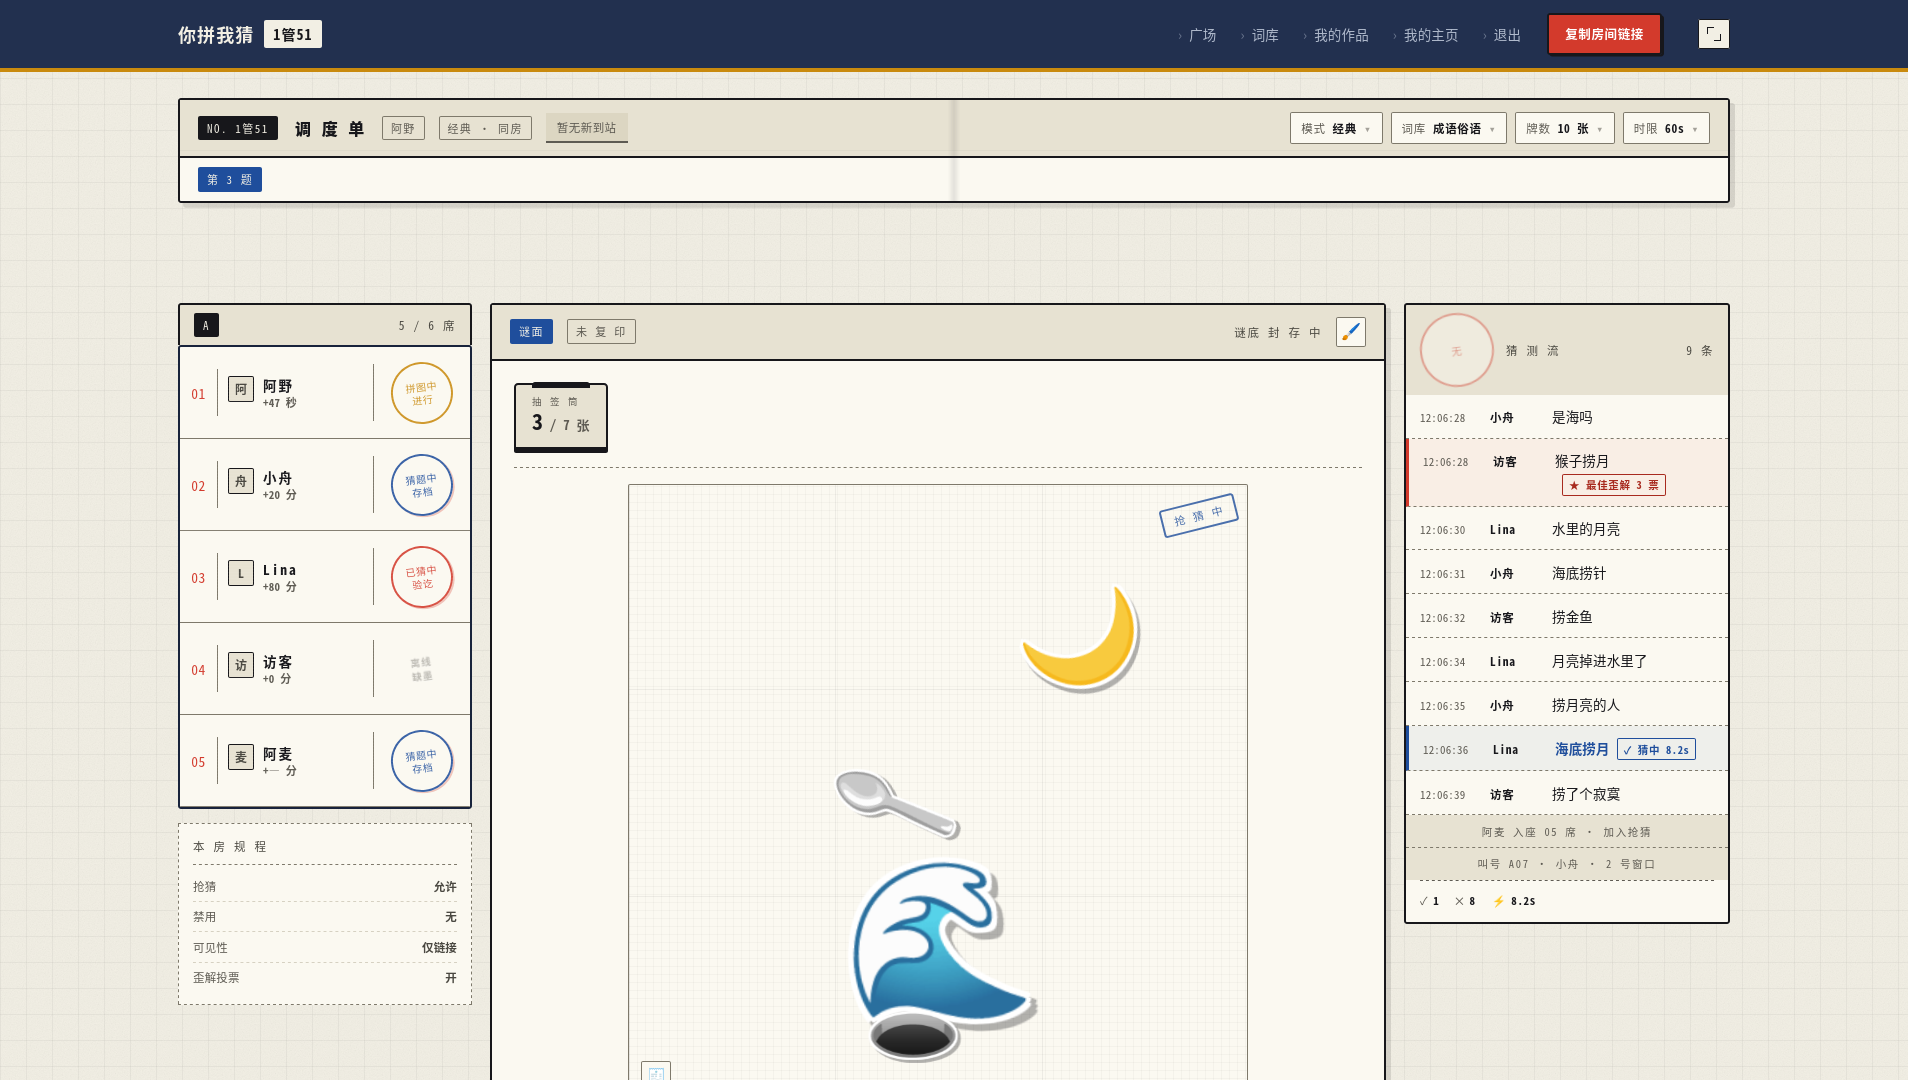
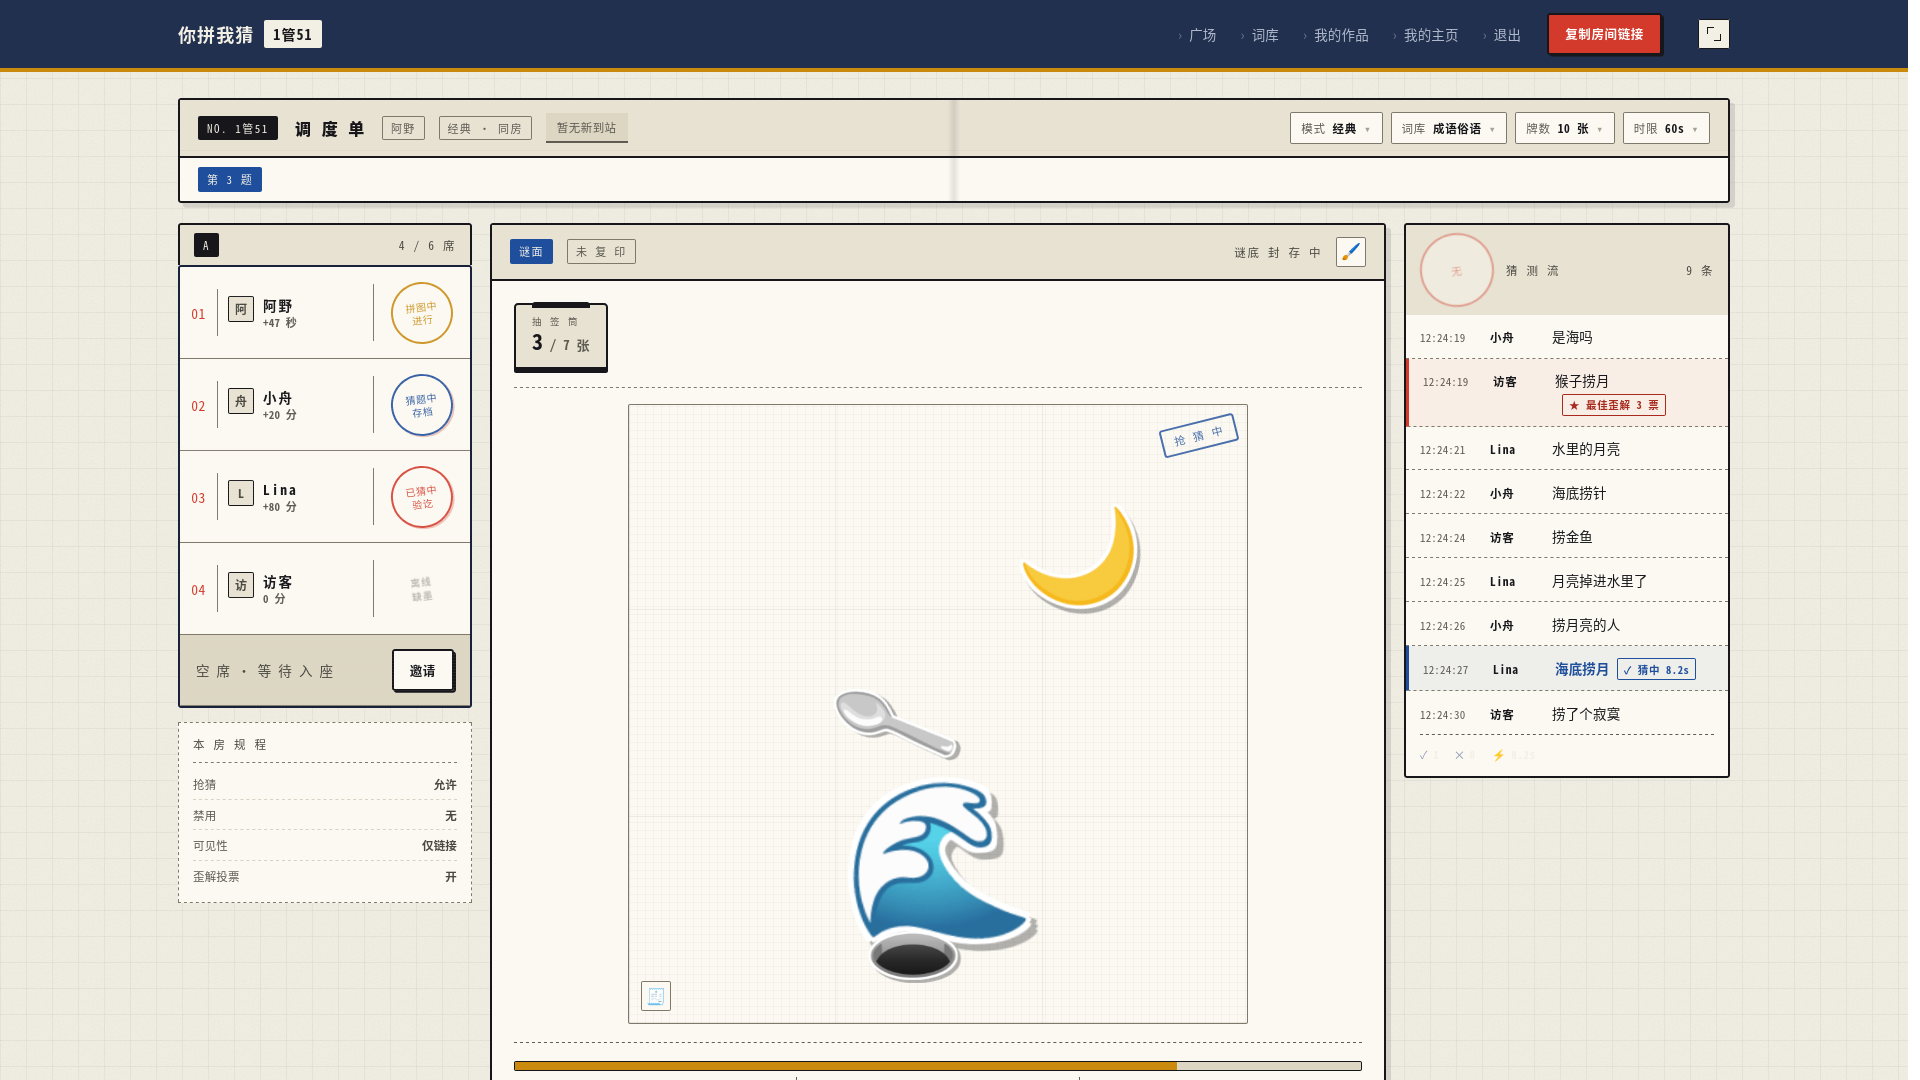
房间：删得分榜 / 叫号，时间信息融合成 11/60
用户逐条点名七项，全部落地：

## ① 删得分榜
右栏底部那块 `得 分 板`（`#score`）整块删除 —— 玩家席位表里每人都带分数，
榜单是同一份数据的第二遍。连带删掉 `.srow` / `.throw` / `#score` 的 CSS、
`renderScore()` 整个函数、`scoreEl` 查找、两处调用、`prevSc` 状态。

## ② 零分不再带加号
`+${p.gain==null?"—":p.gain} 分` —— 加号是硬编码的，所以 0 分也显示 `+0 分`。
改成只有 > 0 才带加号：`04 访客 0 分`。

## ③ 删叫号
`叫 号 A06 / 三个窗口牌 / 听号动身` 整块 —— 用户说「根本没有用」。
连带删 `.winbar` CSS、`renderSigns()`、`callNext()`、两个定时器、
`CALLERS` / `WINDOWS` 常量、`door` / `callT` 变量、三个 DOM 查找。

## ④⑤⑥⑦ 时间信息融合成 11/60
原来同一条时限写了三遍：`⏱ 60s` 提示、`.cd-box`（本题剩余 47 秒）、
`本题已用 13`。用户要求：**删掉 cd-box，把两个信息点融成一句 11/60**，
放进原来的「本题已用」。

    <div class="v" id="elapsedV">13<b class="of">/60</b></div>
    <div class="n">本 题 已 用</div>

大号 13、小号 /60。`paint()` 里同步改成写 `elapsed+'<b class="of">/'+limit+'</b>'`。
倒计时翻牌那套（`.flap` / `#cd` / IIFE）随 `#cd` 一起删除。

## 页面因此短了一大截
房间内容 1719px → ~890px。得分榜与叫号两块占了近一半。

## 顺手清出一批「删了但没删干净」的残骸

这轮我大量用正则删除，留下了**孤儿碎片**，而且**它们制造了两个假信号**：

**a) 一条注释残片伪装成选择器**
删 `#score` 规则时留下 `#score /* 猜测流… */` 粘在 `.flow-sum` 前面，
普查把它当选择器，算出的底色是页面纸而不是深色 `.board`。
**于是 `.flow-sum b{color:var(--ink)}`（墨黑画在深蓝上，1.37:1）一直藏在它后面。**

残片清掉后立刻现形。已改成 `var(--paper)`。

**b) 13 处孤儿注释与一个孤儿 `}`** —— 让 stylesheet 从 121/121 变成 121/122。
check.sh 的标签配平没报（它只查 HTML 标签），是普查先露的马脚。

**教训**：用正则批量删除 CSS 规则时，注释与相邻规则会被撕开。
这轮之后 `.flap` / `.cd-v` / `.cd-u` / `.winbar` / `.srow` / `#score` 的规则**与注释**都已清干净。

diff --git a/tools/contrast_audit.py b/tools/contrast_audit.py
@@ -202,7 +202,8 @@ ANCESTRY = {
     ".feed-no": ".gate", ".gk": ".gate", ".thinbar": ".gate", ".feed": ".gate",
     ".logo": ".nav", ".nav nav a": ".nav", "body>.nav": ".nav",
     ".vote": ".board",                      # guess：榜单行由 renderBoard() 生成在深色板里
-    "#score .srow": "#score", "#score .throw": "#score",
+    ".flow-sum": ".board",   # 猜测流合计，在右栏深面里
+    ".flow-sum b": ".board",
     ".row.top1": ".rk", ".rk .row": ".board",   # ⚠ 原来写的是 .rk —— 但 .rk 是**纸**（.sheet.rk），
     #   深色的是它里面的 <div class="board" id="rk-wrong">。
     #   这一条猜错，让普查静默放过了两条 2.0:1 的文字（票数与副标题）。
@@ -210,7 +211,6 @@ ANCESTRY = {
     ".flap": ".cd-box", ".cd-v": ".cd-box", ".cd-u": ".cd-box",   # 倒计时数字在深色屏里
     ".rk .row.top1 .c2": ".board",   # 复合类（.row.top1）让 .rk .row 匹配不到
     ".rk .row.top1 .c1": ".board", ".rk .row .c2": ".board",
-    "#score": ".board", ".srow": ".board", ".throw": ".board",
 }
 # ② 豁免表：真·误报，写明理由。
 #    banks 的 .box 白字只在 :checked 后出现，而那时底色已变成 --blue；
